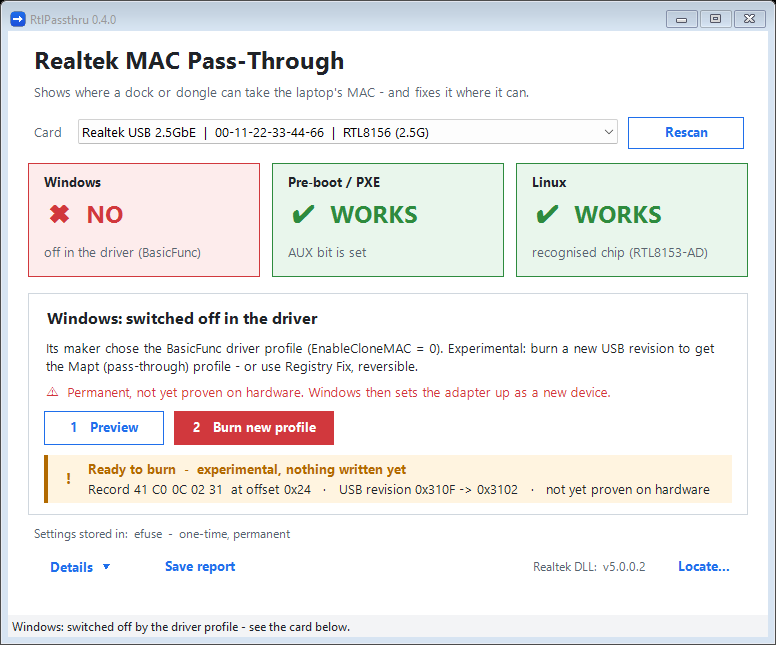
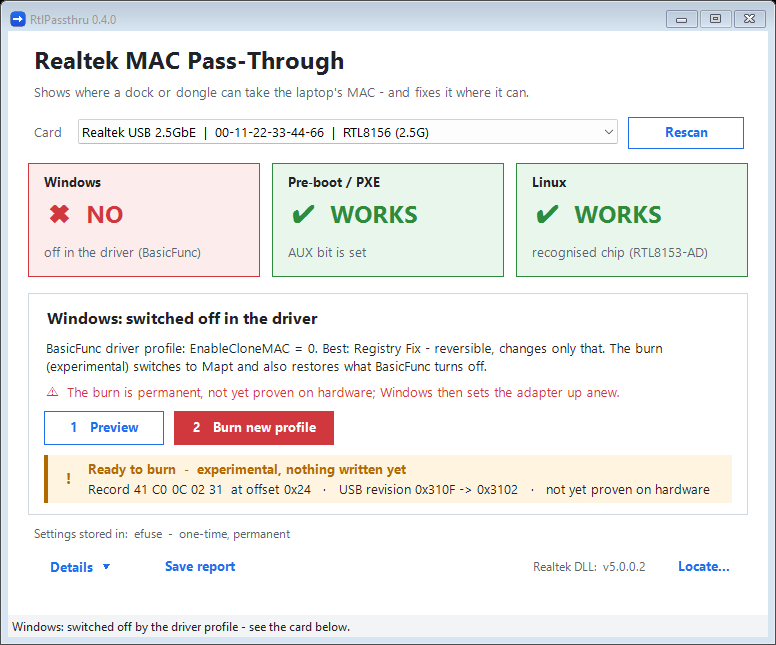
BasicFunc: Registry Fix is the first choice; say what the Mapt burn also brings back
From the driver: BasicFunc sets all four HwOption masks to 0xFFFF, which
switches off its power saving (U1/U2, LTM, EEE+, ALDPS, D3Cold, clock
scaling), USB speed-ups (burst, streams, aggregation, interrupt mitigation)
and some recovery features. Registry Fix changes only EnableCloneMAC; the
Mapt burn restores all of it, which may bring back whatever the maker chose
BasicFunc to avoid.

Changed region(s): [[0.0619, 0.5271, 0.9278, 0.6202]]

diff --git a/README.md b/README.md
@@ -220,11 +220,16 @@ Below the tiles, **one action card** offers what fits *this* card:
 - **Windows: switched off in the driver** — the chip has the pass-through bits, but Windows still
   won't pass the MAC through. Realtek's Windows driver picks a *profile* for each card from the last
   digit of its USB revision, which the card's maker burns in; one of them, **BasicFunc** (a revision
-  ending in `F`), sets the driver option `EnableCloneMAC = 0`. Two ways out:
-  - [Registry Fix](registry-fix/README.md) turns the option back on for this adapter — reversible;
+  ending in `F`), sets the driver option `EnableCloneMAC = 0`. The same profile also switches off the
+  driver's power saving (USB U1/U2, EEE+, ALDPS, deep sleep…), its USB speed-ups (burst, streams,
+  aggregation) and some recovery features — a minimal, most-compatible mode the maker chose. Two ways out:
+  - **first choice:** [Registry Fix](registry-fix/README.md) turns only `EnableCloneMAC` back on, for this
+    adapter, and leaves the rest of the profile as the maker set it — reversible;
   - **experimental:** burn a new USB revision (last digit `F` → `2`), so Windows installs Realtek's
-    **Mapt** profile — "MAC Address Pass-Through" — instead. Windows then sees a new device and sets
-    the adapter up afresh. Not yet proven on hardware; the window says so before the burn.
+    **Mapt** profile — "MAC Address Pass-Through" — instead. That brings back everything BasicFunc
+    switched off, not only pass-through: if the maker chose BasicFunc to work around a problem with its
+    device, the problem may come back. Windows then sees a new device and sets the adapter up afresh.
+    Not yet proven on hardware; the window says so before the burn.
 
   ![Windows switched off in the driver](docs/img/06-basicfunc.png)
 
